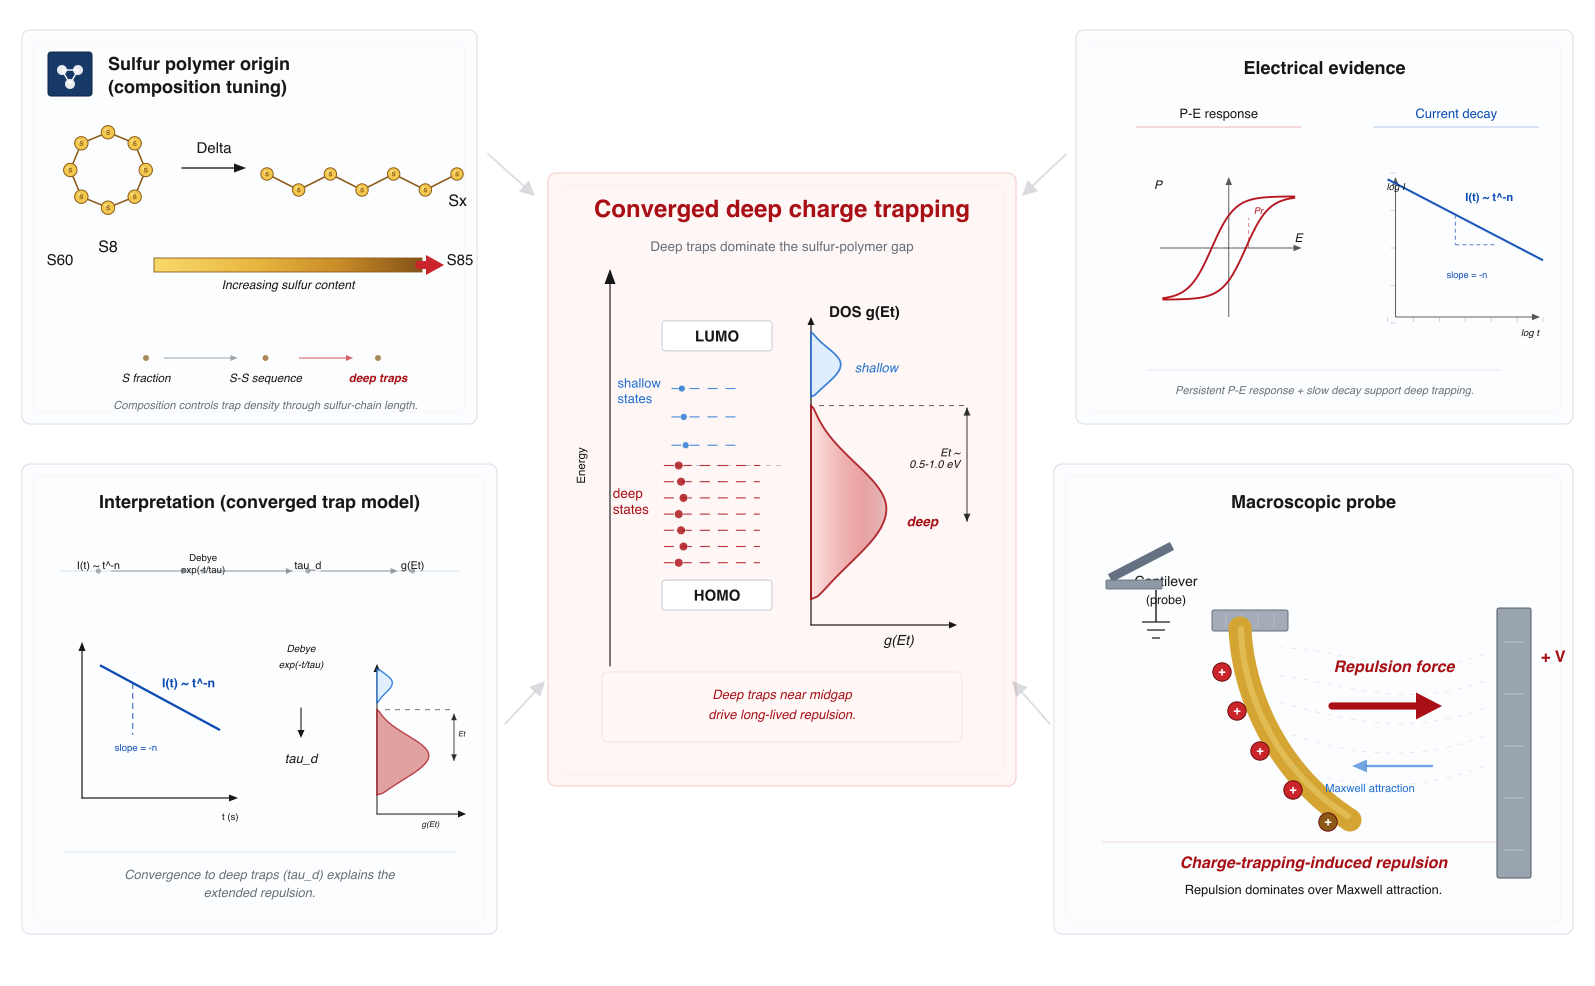
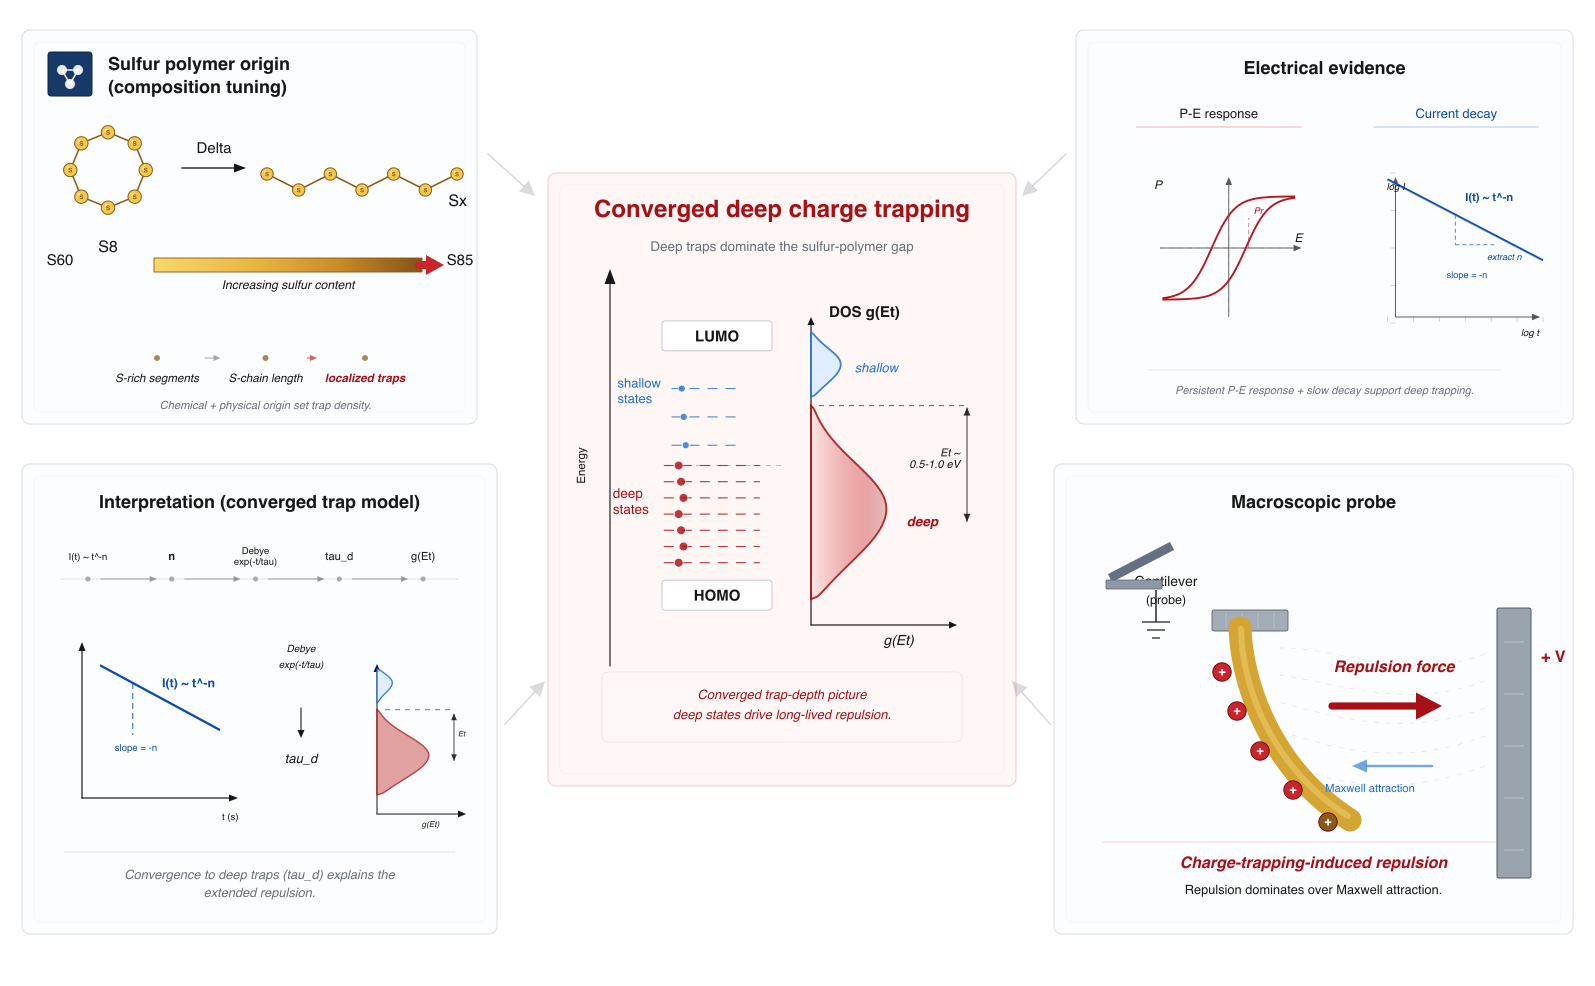
SEMANTIC.fig1: surface causal chain in SVG

diff --git a/experiments/python_svg_semantic_fig1/src/render_fig1_l1.py b/experiments/python_svg_semantic_fig1/src/render_fig1_l1.py
@@ -62,6 +62,7 @@ def _panel_text(
     anchor: str = "start",
     weight: str | None = None,
     italic: bool = False,
+    causal_role: str | None = None,
 ) -> None:
     attrs: dict[str, object] = {
         "fill": fill or style.palette.ink,
@@ -69,6 +70,8 @@ def _panel_text(
         "text_anchor": anchor,
         "data-panel-role": role,
     }
+    if causal_role:
+        attrs["data-causal-role"] = causal_role
     if weight:
         attrs["font_weight"] = weight
     if italic:
@@ -280,11 +283,11 @@ def _draw_sulfur_polymer_origin(drawing: draw.Drawing, scene: Scene, obj: Semant
     bullet_box = column.box("bullet_list")
     relation_y = bullet_box.y + 34
     relation_labels = (
-        ("S fraction", bullet_box.x + 28),
-        ("S-S sequence", bullet_box.center.x),
-        ("deep traps", bullet_box.right - 35),
+        ("S-rich segments", bullet_box.x + 39, "origin-s-rich-segments"),
+        ("S-chain length", bullet_box.center.x, None),
+        ("localized traps", bullet_box.right - 48, "origin-localized-traps"),
     )
-    for index, (label, x) in enumerate(relation_labels):
+    for index, (label, x, causal_role) in enumerate(relation_labels):
         drawing.append(draw.Circle(x, relation_y, 3.0, fill=palette.sulfur_brown, opacity=0.72))
         _panel_text(
             drawing,
@@ -297,13 +300,14 @@ def _draw_sulfur_polymer_origin(drawing: draw.Drawing, scene: Scene, obj: Semant
             italic=True,
             anchor="middle",
             weight="700" if index == 2 else None,
+            causal_role=causal_role,
             style=style,
         )
-    p.arrow(drawing, Point(relation_labels[0][1] + 18, relation_y), Point(relation_labels[1][1] - 28, relation_y), palette.muted, width=1.0, head_length=7, head_width=6, opacity=0.62)
-    p.arrow(drawing, Point(relation_labels[1][1] + 34, relation_y), Point(relation_labels[2][1] - 25, relation_y), palette.deep_red_mid, width=1.1, head_length=7, head_width=6, opacity=0.72)
+    p.arrow(drawing, Point(relation_labels[0][1] + 48, relation_y), Point(relation_labels[1][1] - 45, relation_y), palette.muted, width=1.0, head_length=7, head_width=6, opacity=0.62)
+    p.arrow(drawing, Point(relation_labels[1][1] + 42, relation_y), Point(relation_labels[2][1] - 48, relation_y), palette.deep_red_mid, width=1.1, head_length=7, head_width=6, opacity=0.72)
     _panel_text(
         drawing,
-        "Composition controls trap density through sulfur-chain length.",
+        "Chemical + physical origin set trap density.",
         bullet_box.center.x,
         bullet_box.bottom - 5,
         11.2,
@@ -329,8 +333,11 @@ def _draw_deep_trap_hero(drawing: draw.Drawing, scene: Scene, obj: SemanticObjec
     callout = _local_box(scene, obj.column, "hero_callout")
     compact_callout = Rect(callout.x + 24, callout.y + 8, callout.width - 48, callout.height - 22)
     p.rounded_rect(drawing, compact_callout, fill="#fff8f7", stroke=palette.deep_red_light, radius=6, stroke_width=0.75, opacity=0.82)
-    caption_lines = ("Deep traps near midgap", "drive long-lived repulsion.")
-    for index, line in enumerate(caption_lines):
+    caption_lines = (
+        (payload.converged_picture_label.replace("converged", "Converged", 1), "hero-converged-picture"),
+        ("deep states drive long-lived repulsion.", None),
+    )
+    for index, (line, causal_role) in enumerate(caption_lines):
         _panel_text(
             drawing,
             line,
@@ -341,6 +348,7 @@ def _draw_deep_trap_hero(drawing: draw.Drawing, scene: Scene, obj: SemanticObjec
             fill=palette.deep_red,
             italic=True,
             anchor="middle",
+            causal_role=causal_role,
             style=style,
         )
     p.end_semantic_group(drawing)
@@ -818,6 +826,7 @@ def _plot_label(
     anchor: str = "start",
     italic: bool = False,
     weight: str | None = None,
+    causal_role: str | None = None,
 ) -> None:
     attrs: dict[str, object] = {
         "fill": fill,
@@ -825,6 +834,8 @@ def _plot_label(
         "text_anchor": anchor,
         **_plot_attrs(plot_id, "schematic-label"),
     }
+    if causal_role:
+        attrs["data-causal-role"] = causal_role
     if italic:
         attrs["font_style"] = "italic"
     if weight:
@@ -957,6 +968,17 @@ def _draw_power_law_decay(drawing: draw.Drawing, scene: Scene, obj: SemanticObje
     drawing.append(_plot_polyline(highlight, plot_id=obj.id, role="schematic-curve", fill="none", stroke="#ffffff", stroke_width=0.65, opacity=0.42))
     _plot_label(drawing, obj.id, payload.label, Point(frame.x + frame.width * 0.50, frame.y + 28), 11.2, fill=payload.color, style=style, weight="700")
     _plot_label(drawing, obj.id, "slope = -n", Point(frame.x + frame.width * 0.38, frame.y + frame.height * 0.70), 9.2, fill=payload.color, style=style)
+    _plot_label(
+        drawing,
+        obj.id,
+        "extract n",
+        Point(frame.x + frame.width * 0.64, frame.y + frame.height * 0.58),
+        9.0,
+        fill=payload.color,
+        style=style,
+        italic=True,
+        causal_role="decay-extract-n",
+    )
     _plot_label(drawing, obj.id, "log t", Point(frame.right - 4, frame.bottom + 13), 9.6, fill=palette.ink, style=style, anchor="end", italic=True)
     _plot_label(drawing, obj.id, "log I", Point(frame.x - 1, frame.y + 17), 9.6, fill=palette.ink, style=style, italic=True)
     p.end_semantic_group(drawing)
@@ -1015,19 +1037,53 @@ def _draw_trap_model_flow(drawing: draw.Drawing, scene: Scene, obj: SemanticObje
     payload: TrapModelFlow = obj.payload
     col = _column(scene, obj.column)
     palette = style.palette
-    p.begin_semantic_group(drawing, obj, f"step_count={len(payload.steps)}")
+    display_steps = payload.causal_chain or payload.steps
+    causal_roles = (
+        "interpretation-step-power-law",
+        "interpretation-step-exponent-n",
+        "interpretation-step-debye",
+        "interpretation-step-tau-d",
+        "interpretation-step-trap-depth-distribution",
+    )
+    p.begin_semantic_group(drawing, obj, f"step_count={len(display_steps)} causal_chain={'|'.join(display_steps)}")
     flow_strip = _local_box(scene, obj.column, "flow_strip")
-    box_w = flow_strip.width / len(payload.steps)
-    baseline_y = flow_strip.center.y + 5
+    box_w = flow_strip.width / len(display_steps)
+    baseline_y = flow_strip.bottom - 5
     drawing.append(draw.Line(flow_strip.x + 10, baseline_y, flow_strip.right - 10, baseline_y, stroke=palette.rule, stroke_width=1.0, opacity=0.82))
     previous_center: Point | None = None
-    for index, step in enumerate(payload.steps):
+    for index, step in enumerate(display_steps):
         center = Point(flow_strip.x + index * box_w + box_w / 2 - 4, flow_strip.center.y)
-        lines = step.split("\n")
+        display_step = "Debye\nexp(-t/tau)" if step == "Debye exp(-t/tau)" else step
+        lines = display_step.split("\n")
+        causal_role = causal_roles[index] if index < len(causal_roles) else None
         if len(lines) == 1:
-            p.text(drawing, step, center.x, flow_strip.y + 21, 10.8, fill=palette.ink, anchor="middle", style=style)
+            _panel_text(
+                drawing,
+                step,
+                center.x,
+                flow_strip.y + 12,
+                11.2 if len(step) <= 8 else 9.7,
+                role="interpretation-causal-step",
+                fill=palette.ink,
+                anchor="middle",
+                weight="700" if step == "n" else None,
+                causal_role=causal_role,
+                style=style,
+            )
         else:
-            p.multiline_text(drawing, lines, center.x, flow_strip.y + 13, 9.7, 12.1, fill=palette.ink, anchor="middle", style=style)
+            for line_index, line in enumerate(lines):
+                _panel_text(
+                    drawing,
+                    line,
+                    center.x,
+                    flow_strip.y + 6 + line_index * 10.8,
+                    9.5,
+                    role="interpretation-causal-step",
+                    fill=palette.ink,
+                    anchor="middle",
+                    causal_role=causal_role,
+                    style=style,
+                )
         drawing.append(draw.Circle(center.x, baseline_y, 2.6, fill=palette.muted, opacity=0.55))
         if previous_center:
             p.arrow(drawing, Point(previous_center.x + 13, baseline_y), Point(center.x - 15, baseline_y), palette.muted, width=0.9, head_length=7, head_width=6, opacity=0.68)

diff --git a/experiments/python_svg_semantic_fig1/src/verify_fig1_causal_visibility.py b/experiments/python_svg_semantic_fig1/src/verify_fig1_causal_visibility.py
@@ -1,0 +1,86 @@
+from __future__ import annotations
+
+import sys
+import xml.etree.ElementTree as ET
+from pathlib import Path
+
+
+ROOT = Path(__file__).resolve().parents[1]
+SVG = ROOT / "fig1_reference_semantic.svg"
+HANDBACK = ROOT / "causal_visibility_handback_v17.md"
+
+REQUIRED_VISIBLE_ROLES = {
+    "origin-s-rich-segments": ("S-rich segments",),
+    "origin-localized-traps": ("localized traps",),
+    "decay-extract-n": ("extract n",),
+    "interpretation-step-power-law": ("I(t) ~ t^-n",),
+    "interpretation-step-exponent-n": ("n",),
+    "interpretation-step-debye": ("Debye", "exp(-t/tau)"),
+    "interpretation-step-tau-d": ("tau_d",),
+    "interpretation-step-trap-depth-distribution": ("g(Et)",),
+    "hero-converged-picture": ("Converged trap-depth picture",),
+}
+
+
+def _fail(message: str) -> int:
+    print(message, file=sys.stderr)
+    return 1
+
+
+def _text_value(element: ET.Element) -> str:
+    return " ".join("".join(element.itertext()).split())
+
+
+def _elements_for_role(root: ET.Element, role: str) -> list[ET.Element]:
+    return [
+        element
+        for element in root.iter()
+        if role in element.attrib.get("data-causal-role", "").split()
+    ]
+
+
+def _combined_role_text(root: ET.Element, role: str) -> str:
+    return " ".join(_text_value(element) for element in _elements_for_role(root, role)).strip()
+
+
+def main() -> int:
+    if not SVG.exists():
+        return _fail(f"missing rendered SVG: {SVG}")
+    root = ET.parse(SVG).getroot()
+
+    for role, tokens in REQUIRED_VISIBLE_ROLES.items():
+        text = _combined_role_text(root, role)
+        if not text:
+            return _fail(f"missing visible causal role: {role}")
+        for token in tokens:
+            if token not in text:
+                return _fail(f"causal role {role} missing visible token: {token}")
+
+    for forbidden in ("ground_truth", "pixel-tracing target", "new scaffold"):
+        role_text = " ".join(
+            element.attrib.get("data-causal-role", "")
+            for element in root.iter()
+        )
+        if forbidden in role_text:
+            return _fail(f"causal visibility role over-promotes reference authority: {forbidden}")
+
+    if not HANDBACK.exists():
+        return _fail(f"missing v17 causal visibility handback: {HANDBACK}")
+    handback = HANDBACK.read_text()
+    required_handback_tokens = (
+        "intentional visual semantic update",
+        "not a new scaffold",
+        "Human visual review",
+        "previous hash",
+        "new hash",
+    )
+    for token in required_handback_tokens:
+        if token not in handback:
+            return _fail(f"v17 visibility handback missing token: {token}")
+
+    print("fig1 causal visibility passed")
+    return 0
+
+
+if __name__ == "__main__":
+    raise SystemExit(main())

diff --git a/experiments/python_svg_semantic_fig1/src/check_fig1_docs_manifest.py b/experiments/python_svg_semantic_fig1/src/check_fig1_docs_manifest.py
@@ -11,6 +11,7 @@ V15_HANDBACK = ROOT / "scaffold_contract_handback_v15.md"
 SCAFFOLD_CONTRACT = ROOT / "scaffold_contract_v1.md"
 CAUSAL_BINDING = ROOT / "causal_reference_binding_v16.md"
 V16_HANDBACK = ROOT / "causal_reference_handback_v16.md"
+V17_HANDBACK = ROOT / "causal_visibility_handback_v17.md"
 
 REQUIRED_MANIFEST_TOKENS = (
     "fig1_reference_semantic.svg",
@@ -23,6 +24,7 @@ REQUIRED_MANIFEST_TOKENS = (
     "src/engine/scaffold.py",
     "src/verify_fig1_scaffold_contract.py",
     "src/verify_fig1_causal_binding.py",
+    "src/verify_fig1_causal_visibility.py",
     "dos_reference_schematic_handback_v9.md",
     "dos_density_profile_handback_v10.md",
     "dos_schematic_polish_handback_v11.md",
@@ -31,10 +33,12 @@ REQUIRED_MANIFEST_TOKENS = (
     "global_composition_asset_boundary_handback_v14.md",
     "scaffold_contract_handback_v15.md",
     "causal_reference_handback_v16.md",
+    "causal_visibility_handback_v17.md",
     "legacy annotated redraw",
     "layout/style evidence only",
     "scaffold_contract_v1",
     "causal diagram is not ground_truth",
+    "intentional visual semantic update",
 )
 
 REQUIRED_V14_TOKENS = (
@@ -75,6 +79,18 @@ REQUIRED_V16_TOKENS = (
     "semantic reference",
     "not ground_truth",
     "not a pixel-tracing target",
+    "Human visual review",
+)
+
+REQUIRED_V17_TOKENS = (
+    "intentional visual semantic update",
+    "not a new scaffold",
+    "S-rich segments",
+    "localized traps",
+    "extract n",
+    "Converged trap-depth picture",
+    "previous hash",
+    "new hash",
     "Human visual review",
 )
 
@@ -126,6 +142,13 @@ def main() -> int:
     for token in REQUIRED_V16_TOKENS:
         if token not in v16_handback:
             return _fail(f"v16 causal handback missing token: {token}")
+
+    if not V17_HANDBACK.exists():
+        return _fail(f"missing v17 visibility handback: {V17_HANDBACK}")
+    v17_handback = V17_HANDBACK.read_text()
+    for token in REQUIRED_V17_TOKENS:
+        if token not in v17_handback:
+            return _fail(f"v17 visibility handback missing token: {token}")
 
     print("fig1 docs manifest passed")
     return 0

diff --git a/experiments/python_svg_semantic_fig1/README.md b/experiments/python_svg_semantic_fig1/README.md
@@ -16,6 +16,7 @@ Use these files for the current semantic-driven reference-layout renderer:
 - `src/verify_fig1_semantics.py`
 - `src/verify_fig1_scaffold_contract.py`
 - `src/verify_fig1_causal_binding.py`
+- `src/verify_fig1_causal_visibility.py`
 - `src/fig1_visual_policies.py`
 - `src/check_fig1_docs_manifest.py`
 - `src/fig_probe_01_scene.py`
@@ -50,6 +51,7 @@ Use these files for the current semantic-driven reference-layout renderer:
 - `global_composition_asset_boundary_handback_v14.md`
 - `scaffold_contract_handback_v15.md`
 - `causal_reference_handback_v16.md`
+- `causal_visibility_handback_v17.md`
 - `framework_probe_01_handback.md`
 - `framework_probe_02_handback.md`
 - `reference_scaffold_first_pivot_plan.md`
@@ -61,6 +63,8 @@ The v7b layer keeps `drawsvg` as the semantic SVG compositor, but uses Matplotli
 The reference PNG is layout/style evidence only for this pilot. It is not ground truth and not a pixel-tracing target: `visual_layout.yaml` converts the reference into explicit card bounds, local card boxes, object assignments, and flow anchors, then `src/engine/scaffold.py` exposes those facts as the scaffold contract. The scene payload drives the rendered scientific geometry inside those regions.
 
 The v16 causal binding layer keeps that visual scaffold authority unchanged while treating the user-provided causal diagram as a semantic reference only. It binds the narrative chain `I(t) ~ t^-n -> n -> Debye exp(-t/tau) -> tau_d -> g(Et)`, S-rich segments, localized traps, chemical/physical origin cues, and the converged trap-depth picture into typed payload fields and a separate verifier. The causal diagram is not ground_truth and is not a pixel-tracing target.
+
+The v17 causal visibility layer makes selected v16 bindings visible without replacing the scaffold: origin labels show `S-rich segments` and `localized traps`, the current-decay plot shows `extract n`, the interpretation flow shows `I(t) ~ t^-n -> n -> Debye exp(-t/tau) -> tau_d -> g(Et)`, and the hero callout names the `Converged trap-depth picture`. This is an intentional visual semantic update and still requires human visual review before publication-grade approval.
 
 ## Second-Figure Framework Probe
 
@@ -130,8 +134,9 @@ python experiments/python_svg_semantic_fig1/src/verify_fig1_semantics.py
 python experiments/python_svg_semantic_fig1/src/check_fig1_docs_manifest.py
 python experiments/python_svg_semantic_fig1/src/verify_fig1_scaffold_contract.py
 python experiments/python_svg_semantic_fig1/src/verify_fig1_causal_binding.py
+python experiments/python_svg_semantic_fig1/src/verify_fig1_causal_visibility.py
 python -m xml.etree.ElementTree experiments/python_svg_semantic_fig1/fig1_reference_semantic.svg
 rsvg-convert -w 1595 -h 986 experiments/python_svg_semantic_fig1/fig1_reference_semantic.svg -o /tmp/fig1_reference_semantic_check.png
 ```
 
-`verify_fig1_semantics.py` checks the required object kinds, trap/DOS dominance, trap energy ordering, computed curve-model sanity, historical reference card bounds and local boxes from `visual_layout.yaml`, center hero placement, support-to-hero flow arrows, reference probe force cues, evidence modalities, hero reference-scaffold roles, hero DOS morphology, sampled DOS density paths, hero DOS label/lobe clearance, mini-DOS label count and lobe avoidance, semantic SVG bboxes, schematic plot roles, rejection of over-real plot frames/tick labels/dense ticks, schematic label containment, forbidden actuator/force-balance framing terms, generated artifacts, and visible-geometry payload mutation behavior. `verify_fig1_scaffold_contract.py` is the explicit scaffold verifier for panel loading, local box containment, object-slot binding, flow-anchor binding, and reference provenance. `verify_fig1_causal_binding.py` checks that the v16 causal diagram stays semantic-only while binding the experiment-to-Debye-to-`g(Et)` chain and molecular-origin cues into payloads. Fig1-specific visual policy caps from v12-v14 live in `fig1_visual_policies.py`, while README/handback governance lives in `check_fig1_docs_manifest.py`.
+`verify_fig1_semantics.py` checks the required object kinds, trap/DOS dominance, trap energy ordering, computed curve-model sanity, historical reference card bounds and local boxes from `visual_layout.yaml`, center hero placement, support-to-hero flow arrows, reference probe force cues, evidence modalities, hero reference-scaffold roles, hero DOS morphology, sampled DOS density paths, hero DOS label/lobe clearance, mini-DOS label count and lobe avoidance, semantic SVG bboxes, schematic plot roles, rejection of over-real plot frames/tick labels/dense ticks, schematic label containment, forbidden actuator/force-balance framing terms, generated artifacts, and visible-geometry payload mutation behavior. `verify_fig1_scaffold_contract.py` is the explicit scaffold verifier for panel loading, local box containment, object-slot binding, flow-anchor binding, and reference provenance. `verify_fig1_causal_binding.py` checks that the v16 causal diagram stays semantic-only while binding the experiment-to-Debye-to-`g(Et)` chain and molecular-origin cues into payloads. `verify_fig1_causal_visibility.py` checks that those causal bindings are visible as role-tagged SVG text. Fig1-specific visual policy caps from v12-v14 live in `fig1_visual_policies.py`, while README/handback governance lives in `check_fig1_docs_manifest.py`.

diff --git a/experiments/python_svg_semantic_fig1/causal_visibility_handback_v17.md b/experiments/python_svg_semantic_fig1/causal_visibility_handback_v17.md
@@ -1,0 +1,28 @@
+# Causal Visibility Handback v17
+
+## Scope
+
+This pass is an intentional visual semantic update. It makes the v16 causal binding visible inside the existing Fig1 scaffold.
+
+## Implemented Boundary
+
+- This is not a new scaffold.
+- The original aesthetic reference remains the visual scaffold authority.
+- The user-provided causal diagram remains semantic/narrative evidence only.
+- The update does not promote any reference to ground truth or a pixel-tracing target.
+
+## Visible Changes
+
+- Origin panel now labels `S-rich segments` and `localized traps`.
+- Current-decay evidence now shows an `extract n` cue.
+- Interpretation panel now shows the five-step causal chain: `I(t) ~ t^-n -> n -> Debye exp(-t/tau) -> tau_d -> g(Et)`.
+- Hero callout now names the `Converged trap-depth picture`.
+
+## Hash Record
+
[2 lines of base64/hex data omitted]
+
+## Review Gate
+
+Human visual review is still required before treating this as publication-grade. The verifier checks presence and role binding; it does not judge final aesthetics.
